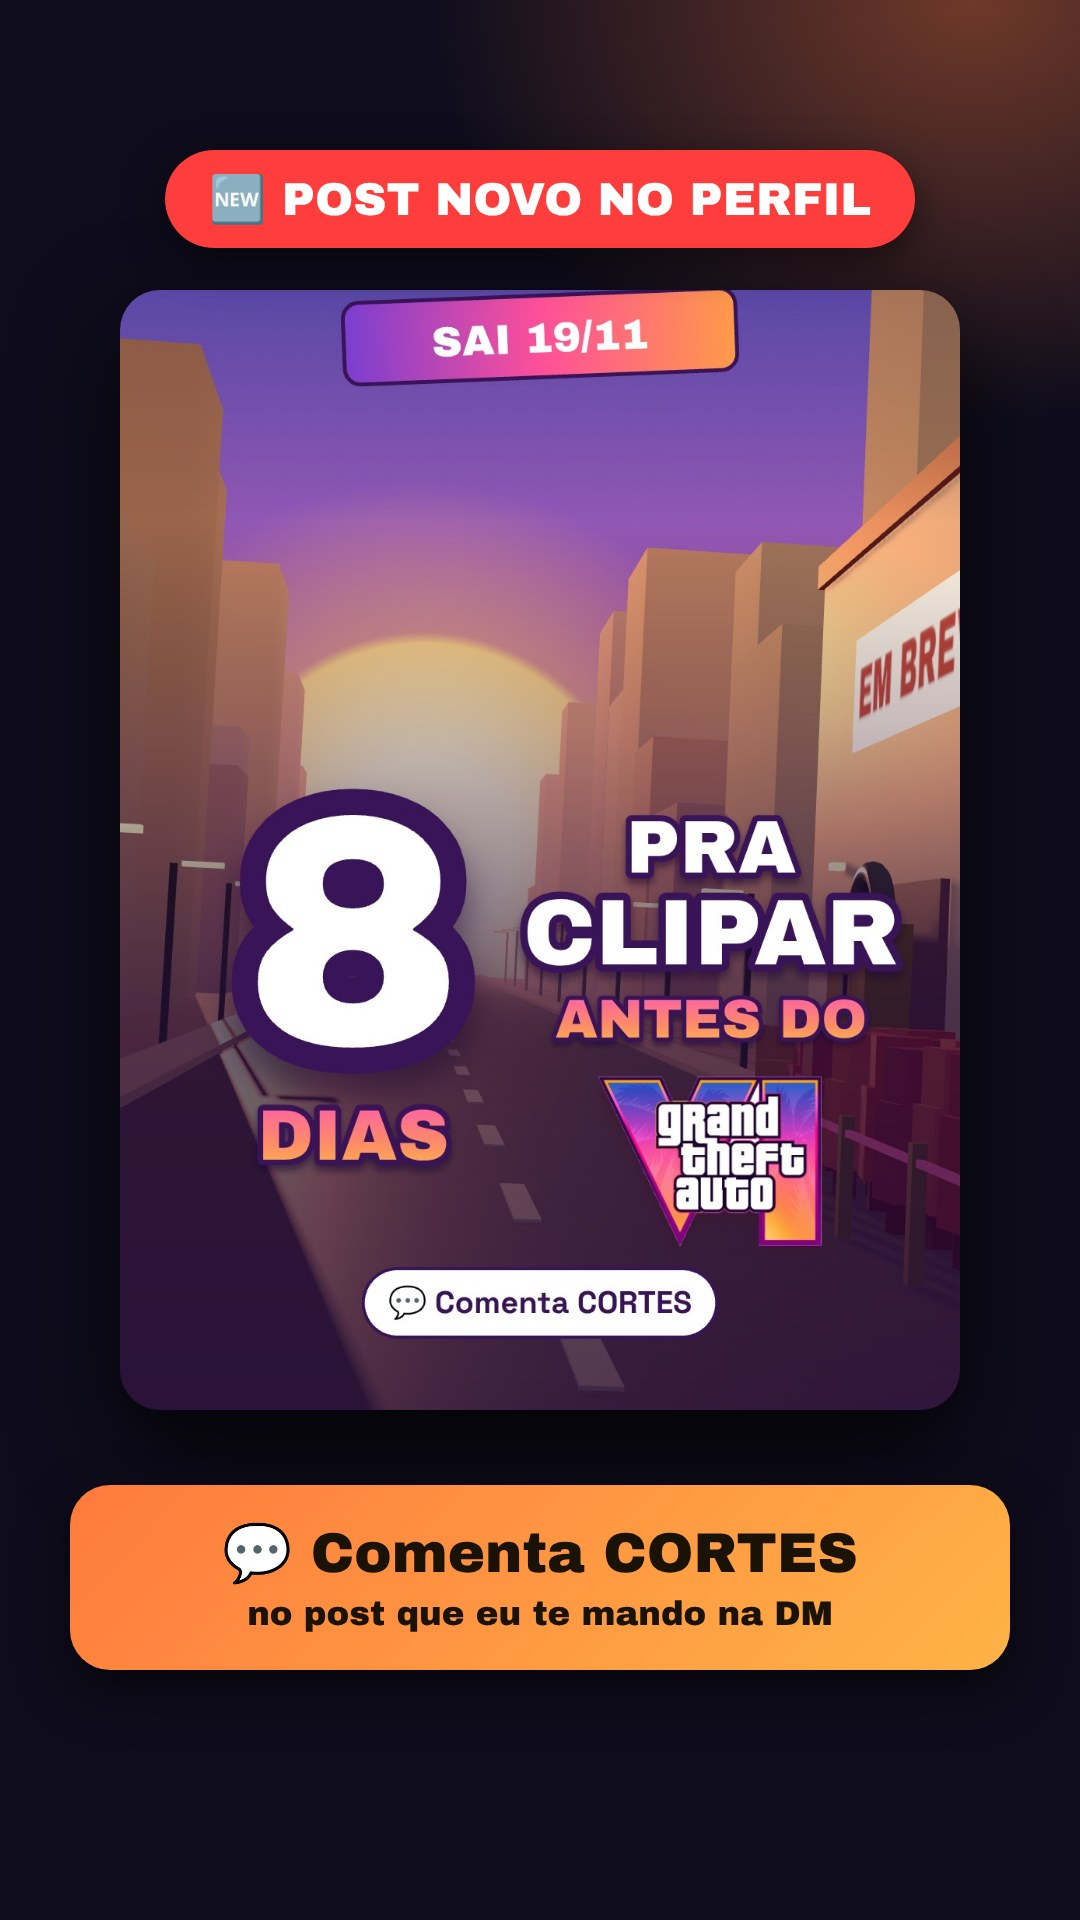
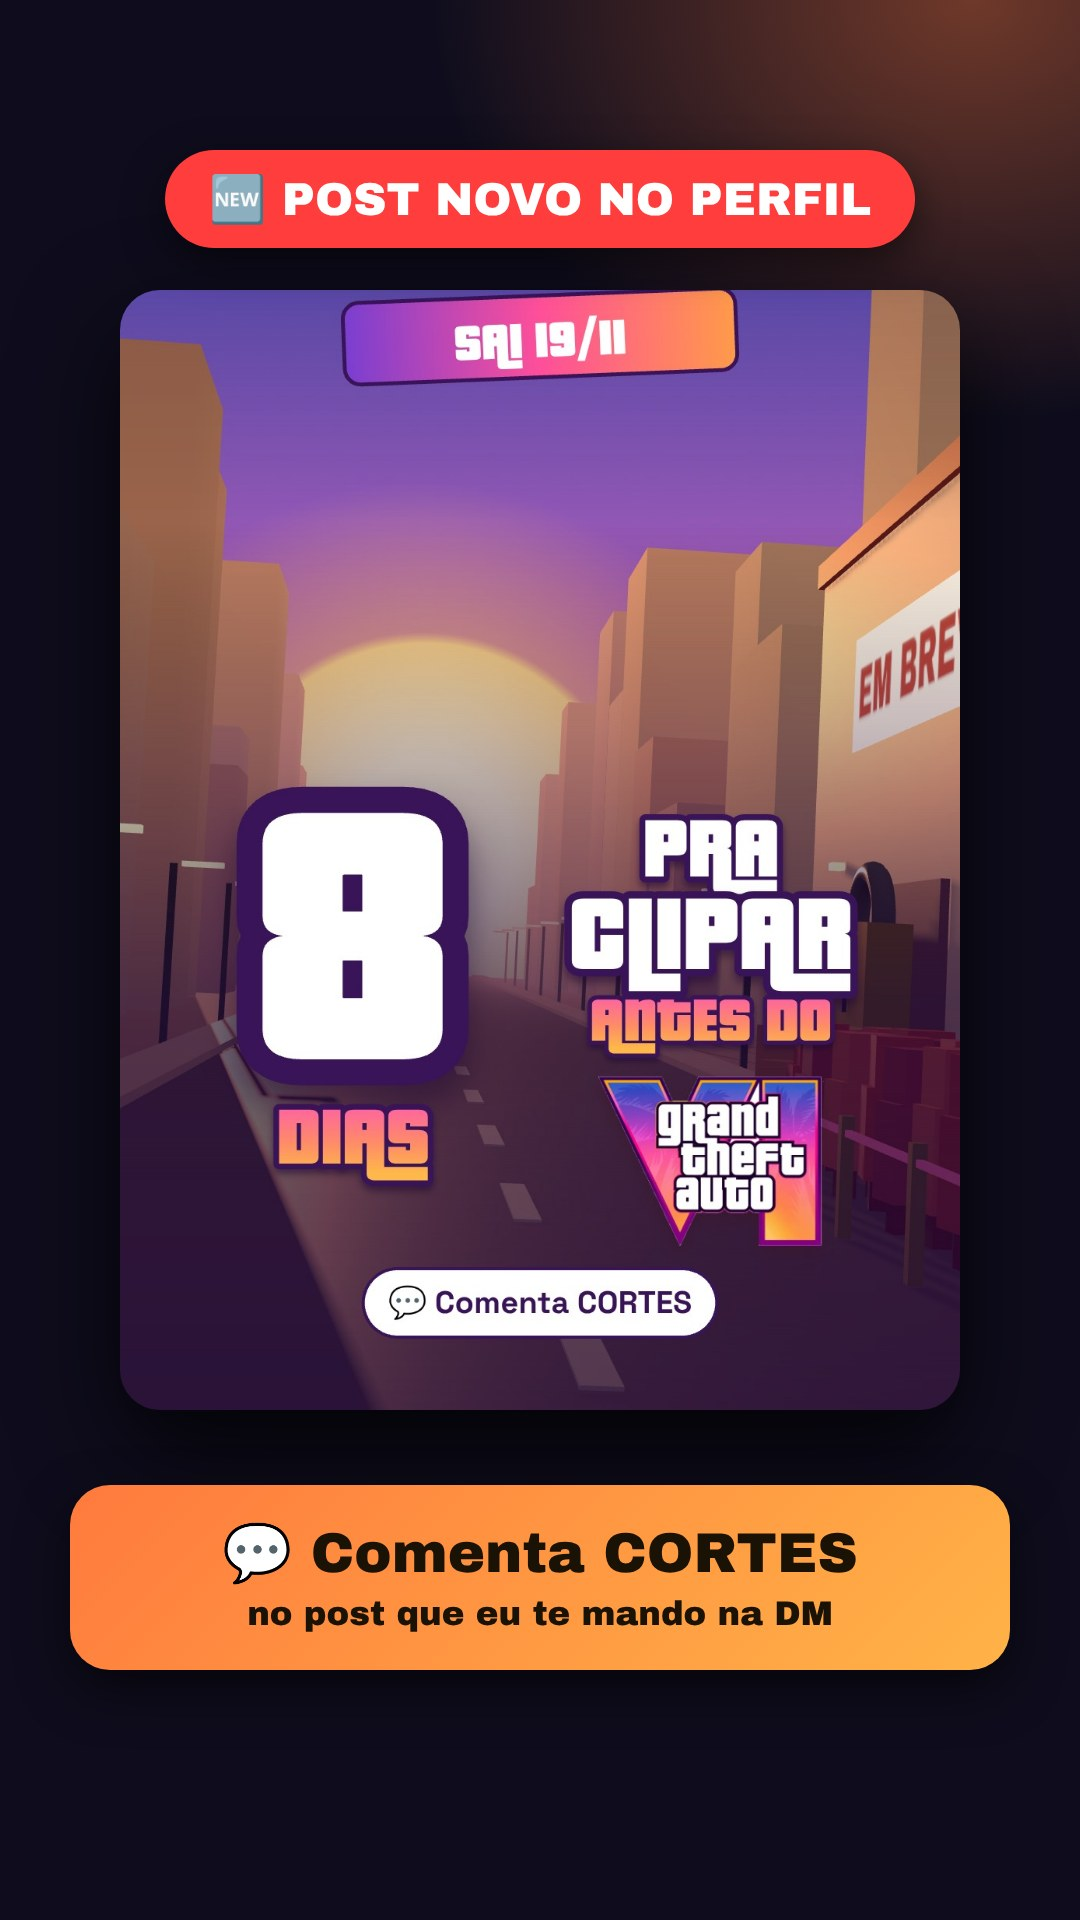
GTA: títulos na Pricedown (letra do GTA), fonte baixada por script e fora do git (licença)
Claude-Session: https://claude.ai/code/session_01Q8XwFp4PbQRk1Sr59ew9Br

Changed region(s): [[0.2139, 0.4062, 0.8556, 0.625], [0.3972, 0.1562, 0.6111, 0.2188]]

diff --git a/ia/video/cena_gta/index.html b/ia/video/cena_gta/index.html
@@ -1,5 +1,6 @@
 <!doctype html><html><head><meta charset="utf-8"><style>
 @font-face{font-family:AB;src:url(../cena_contagem/f/archivo-black-latin-400-normal.woff2)}
+@font-face{font-family:PD;src:url(fontes/pricedown.otf)}
 @font-face{font-family:FR;src:url(../cena_contagem/f/fraunces-latin-700-normal.woff2)}
 @font-face{font-family:SG;src:url(../cena_contagem/f/space-grotesk-latin-700-normal.woff2)}
 *{margin:0}html,body{width:1080px;height:1920px;overflow:hidden;background:#000}
@@ -11,7 +12,8 @@ canvas{position:absolute;left:0;top:0;width:1080px;height:1920px}
 // gráfico de gritos, lista pra aprovar, contador de cortes, telão, torres de moedas, etiqueta "lançado 2013", fogos do 6, comenta.
 // Interface: setTL(timeline), setT(t), eventos(). Render: CENA=cena_gta/index.html node cena_quarto/render_quarto.js <tl> <mp4>
 import * as THREE from '../cena_trend/three.module.min.js';
-for (const f of ['400 60px AB', '700 60px SG', '700 60px FR']) await document.fonts.load(f);
+for (const f of ['400 60px AB', '700 60px SG', '700 60px FR', '400 60px PD']) await document.fonts.load(f);
+if (!document.fonts.check('400 60px PD')) console.error('fonte Pricedown ausente: rode video/baixa_pricedown.sh');
 // logo oficial do GTA VI (Rockstar Games; uso autorizado pelo Vitor em 10/11, em contexto de notícia)
 const LOGO = new Image(); LOGO.src = 'gta6_logo.png'; await LOGO.decode();
 const R = new THREE.WebGLRenderer({ canvas: document.getElementById('g'), antialias: true, preserveDrawingBuffer: true });
@@ -98,10 +100,10 @@ for (let i = 0; i < NF; i++) { const a = rnd() * 6.283, b = Math.acos(2 * rnd() 
 
 // ---------- camada 2D ----------
 const U = document.getElementById('u'), X = U.getContext('2d');
-const fnt = (s, f = 'AB') => `${f === 'AB' ? 400 : 700} ${s}px ${f}`;
+const fnt = (s, f = 'AB') => `${f === 'SG' || f === 'FR' ? 700 : 400} ${s * (f === 'PD' ? 1.18 : 1)}px ${f}`;
 const pil = (x, y, w, h, r, c) => { X.fillStyle = c; X.beginPath(); X.roundRect(x, y, w, h, r); X.fill(); };
 function cabe(txt, f, mx, fam = 'AB') { while (f > 18) { X.font = fnt(f, fam); if (X.measureText(txt).width <= mx) break; f -= 2; } return f; }
-function neon(txt, x, y, f, cor = '#fff', glow = ROSA, al = 'center', fam = 'AB') { X.save(); X.font = fnt(f, fam); X.textAlign = al; X.textBaseline = 'middle'; X.lineJoin = 'round';
+function neon(txt, x, y, f, cor = '#fff', glow = ROSA, al = 'center', fam = 'PD') { X.save(); X.font = fnt(f, fam); X.textAlign = al; X.textBaseline = 'middle'; X.lineJoin = 'round';
   if (cor === '#ffd36e' || cor === ROSA || cor === 'grad') { const g = X.createLinearGradient(0, y - f * .5, 0, y + f * .5); g.addColorStop(0, '#ff5fa8'); g.addColorStop(.55, '#ff8a6a'); g.addColorStop(1, '#ffb84a'); cor = g; }
   X.shadowColor = 'rgba(30,8,50,.55)'; X.shadowBlur = f * .1; X.shadowOffsetY = f * .07; X.lineWidth = f * .16; X.strokeStyle = '#3a1458'; X.strokeText(txt, x, y); X.shadowColor = 'transparent'; X.fillStyle = cor; X.fillText(txt, x, y); X.restore(); }
 // "VI" em algarismo romano (fonte e degradê nossos, sem o logo oficial): ouro → laranja → coral, contorno fino
@@ -261,7 +263,7 @@ window.capa = () => {
   mundo('gancho', 9, 10, 1.3); CAD.scale.setScalar(1); CAD.visible = true;
   hemi.intensity = 1.6; cam.fov = 46; cam.updateProjectionMatrix(); cam.position.copy(V(-1.2, 2.4, 17)); cam.lookAt(V(2.2, 5.2, -30)); cam.rotateZ(.05); R.render(S, cam); cam.fov = 40; cam.updateProjectionMatrix(); hemi.intensity = 1.25;
   X.clearRect(0, 0, 1080, 1920); const vg = X.createLinearGradient(0, 0, 0, 1920); vg.addColorStop(0, 'rgba(30,10,60,.2)'); vg.addColorStop(.28, 'rgba(0,0,0,0)'); vg.addColorStop(.42, 'rgba(30,10,60,.25)'); vg.addColorStop(.6, 'rgba(30,10,60,.62)'); vg.addColorStop(.85, 'rgba(30,10,60,.72)'); vg.addColorStop(1, 'rgba(30,10,60,.8)'); X.fillStyle = vg; X.fillRect(0, 0, 1080, 1920);
-  X.save(); X.translate(540, 300); X.rotate(-.04); const sg = X.createLinearGradient(-250, 0, 250, 0); sg.addColorStop(0, '#7b3fd0'); sg.addColorStop(.5, '#ff4f9a'); sg.addColorStop(1, '#ff9a4a'); X.lineWidth = 10; X.strokeStyle = '#3a1458'; X.beginPath(); X.roundRect(-250, -50, 500, 100, 18); X.stroke(); pil(-250, -50, 500, 100, 18, sg); X.fillStyle = '#fff'; X.font = fnt(54); X.textAlign = 'center'; X.textBaseline = 'middle'; X.fillText('SAI 19/11', 0, 4); X.restore();
+  X.save(); X.translate(540, 300); X.rotate(-.04); const sg = X.createLinearGradient(-250, 0, 250, 0); sg.addColorStop(0, '#7b3fd0'); sg.addColorStop(.5, '#ff4f9a'); sg.addColorStop(1, '#ff9a4a'); X.lineWidth = 10; X.strokeStyle = '#3a1458'; X.beginPath(); X.roundRect(-250, -50, 500, 100, 18); X.stroke(); pil(-250, -50, 500, 100, 18, sg); X.fillStyle = '#fff'; X.font = fnt(58, 'PD'); X.textAlign = 'center'; X.textBaseline = 'middle'; X.fillText('SAI 19/11', 0, 6); X.restore();
   neon(String(DIA), 300, 1080, 420, '#fff', ROSA); neon('DIAS', 300, 1330, 92, '#ffd36e', LARANJA);
   neon('PRA', 760, 960, 96, '#fff', ROSA); neon('CLIPAR', 760, 1070, 120, '#fff', ROSA); neon('ANTES DO', 760, 1180, 70, '#ffd36e', LARANJA); logo(760, 1360, 290);
   X.font = fnt(40, 'SG'); const tx = '💬 Comenta CORTES'; const tw = X.measureText(tx).width + 60; X.lineWidth = 8; X.strokeStyle = '#3a1458'; X.beginPath(); X.roundRect(540 - tw / 2, 1500, tw, 84, 42); X.stroke(); pil(540 - tw / 2, 1500, tw, 84, 42, '#fff'); X.fillStyle = '#3a1458'; X.textAlign = 'center'; X.textBaseline = 'middle'; X.fillText(tx, 540, 1544);

diff --git a/ia/AGENTE.md b/ia/AGENTE.md
@@ -111,7 +111,7 @@ Modelo: `posts/2026-11-10-9-dias-pro-gta-6/` + `video/cena_gta/` (Referência 14
 - **Mundo 3D com profundidade:** cidade/cenário de blocos inteiro com avenida, prédios dos dois lados, céu em degradê com sol, neblina de distância e luz quente de pôr do sol. Nada de palco fechado nem fundo chapado.
 - **Câmera viajando:** cada cena tem a sua posição no mundo; a câmera desliza de uma para a outra (corte seco só em salto grande), com leve inclinação e movimento contínuo. Nenhum quadro parado.
 - **Cada fala vira um objeto ou efeito:** número gigante neon, letreiro split-flap, odômetro girando, prédio que cresce, cadeado, pasta 3D, gráfico de picos, lista com checks, cartões que sobem, torres de moedas, fogos. Uma ideia por cena, um efeito forte por cena.
-- **Visual limpo de pôr do sol (Vitor, 10/11: "tá meio poluído, tira essa textura neon e aplica mais algo tipo pôr do sol"):** prédios lisos em tons pastel quentes, sem textura de janelinhas nem faixas neon; céu em degradê lilás → rosa → laranja → dourado, sol grande e baixo no fim da avenida, luz dourada de contraluz. Texto, selo, pílula e legenda **na mesma linguagem do elemento principal** (Vitor, 10/11: "as fontes tão diferentes, cor tá diferente, fundo não tá contrastando"): uma fonte só (Archivo Black), branco com contorno escuro grosso (no GTA, roxo #3a1458) e destaques no degradê do próprio tema (no GTA, rosa → laranja do logo); céu puxando as cores do tema; faixa escura atrás do bloco de texto para contrastar. Sem glow.
+- **Visual limpo de pôr do sol (Vitor, 10/11: "tá meio poluído, tira essa textura neon e aplica mais algo tipo pôr do sol"):** prédios lisos em tons pastel quentes, sem textura de janelinhas nem faixas neon; céu em degradê lilás → rosa → laranja → dourado, sol grande e baixo no fim da avenida, luz dourada de contraluz. Texto, selo, pílula e legenda **na mesma linguagem do elemento principal** (Vitor, 10/11: "as fontes tão diferentes, cor tá diferente, fundo não tá contrastando"): títulos na fonte do tema (no GTA, **Pricedown**, a letra do jogo; licença Typodermic permite vídeo comercial mas proíbe redistribuir o arquivo, então ela fica fora do git: `bash video/baixa_pricedown.sh` antes de renderizar) e números/textos pequenos em Archivo Black (legibilidade), branco com contorno escuro grosso (no GTA, roxo #3a1458) e destaques no degradê do próprio tema (no GTA, rosa → laranja do logo); céu puxando as cores do tema; faixa escura atrás do bloco de texto para contrastar. Sem glow.
 - **Progresso visível:** passos com selo de estrelas "1/4…4/4"; contador que muda a cada bloco.
 - **Fechamento:** caixa de comentário digitando a palavra + cartão da DM chegando; o último 0,6 s volta ao 1º quadro (loop).
 - **Capa no mesmo mundo 3D:** a capa é renderizada pela própria cena (`window.capa()` na `cena_gta`; `node video/cena_gta/capa.js <saida.jpg>` com o http.server na 8790), nunca o modelo genérico do `capas.js`: avenida com profundidade e sol ao fundo, número/título neon grande no recorte 3:4, selo vermelho no topo e pílula "Comenta PALAVRA" (Vitor, 10/11: "capa fraquíssima… mais alinhada com o vídeo").
